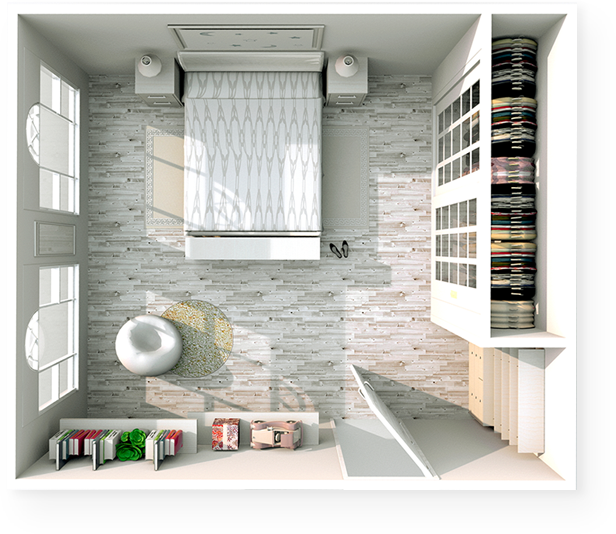
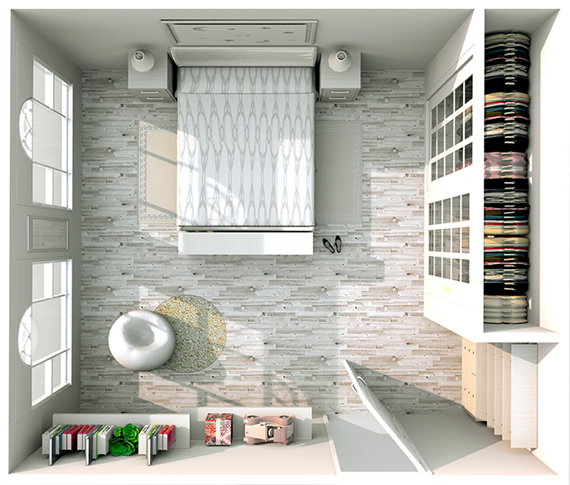
готово

diff --git a/lesson_14/src/css/style.css b/lesson_14/src/css/style.css
@@ -7,6 +7,10 @@ img {
   max-width: 100%;
 }
 
+h1 {
+  margin: 0;
+}
+
 .container {
   width: 1170px;
   margin: auto;
@@ -16,6 +20,9 @@ img {
   .container {
     width: 760px;
   }
+  .hero {
+    padding: 50px 0;
+  }
 }
 
 @media (max-width: 768px) {
@@ -23,12 +30,16 @@ img {
     max-width: 570px;
     width: 95%;
   }
+  .hero {
+    margin: 0;
+    padding: 0;
+  }
 }
 
 /* усложненное задание :)*/
 @media (max-width: 567px) {
   .container {
-    width: 279px;
+    width: 280px;
   }
 }
 
@@ -41,7 +52,6 @@ img {
   font-weight: 400;
 }
 
-/* импорт стилий шапки */
 .navbar {
   padding: 8px 0;
 }
@@ -149,13 +159,14 @@ img {
 }
 
 .hero {
-  padding: 50px 0;
+  background-color: #f5f5f5;
 }
 
 .hero-block {
   display: -webkit-box;
   display: -ms-flexbox;
   display: flex;
+  padding: 50px 0 52px 0;
 }
 
 .hero-text {
@@ -166,16 +177,16 @@ img {
 
 .hero-text__title {
   font-size: 41px;
-  font-weight: 600;
+  font-weight: 400;
   line-height: 55px;
-  margin-bottom: 40px;
+  margin: 30px 0 38px 0;
 }
 
 .hero-text__subtitle {
   display: inline-block;
   font-size: 20px;
   font-weight: 500;
-  margin-bottom: 69px;
+  margin-bottom: 60px;
 }
 
 .hero-list {
@@ -211,7 +222,13 @@ img {
 }
 
 .hero-list__text {
-  max-width: 300px;
+  max-width: 223px;
+  font-size: 14px;
+}
+
+.hero-image__image {
+  -webkit-box-shadow: 7px 5px 10px rgba(0, 0, 0, 0.05), 16px 22px 35px rgba(0, 0, 0, 0.05);
+          box-shadow: 7px 5px 10px rgba(0, 0, 0, 0.05), 16px 22px 35px rgba(0, 0, 0, 0.05);
 }
 
 @media (max-width: 1200px) {
@@ -230,23 +247,41 @@ img {
 }
 
 @media (max-width: 768px) {
+  .hero-block {
+    padding: 0;
+  }
   .hero-text__title {
     font-size: 24px;
-    line-height: 1.4;
-    margin-bottom: 15px;
+    line-height: 1.3;
+    margin-top: 34px;
+    margin-bottom: 9px;
   }
   .hero-text__subtitle {
     font-size: 16px;
-    margin-bottom: 28px;
+    margin-bottom: 24px;
   }
   .hero-list__item {
-    margin-bottom: 20px;
+    margin-bottom: 17px;
   }
   .hero-list__text {
     font-size: 12px;
   }
   .hero-list__image {
     margin-right: 15px;
+    margin-left: 3px;
+    width: 40px;
+    height: 40px;
+    border: 2px solid #ffd200;
+    display: -webkit-box;
+    display: -ms-flexbox;
+    display: flex;
+    -webkit-box-align: center;
+        -ms-flex-align: center;
+            align-items: center;
+    -webkit-box-pack: center;
+        -ms-flex-pack: center;
+            justify-content: center;
+    border-radius: 50%;
   }
 }
 /*# sourceMappingURL=style.css.map */

diff --git a/lesson_14/src/index.html b/lesson_14/src/index.html
@@ -5,7 +5,7 @@
   <meta charset="UTF-8">
   <meta name="viewport" content="width=device-width, initial-scale=1.0">
   <meta http-equiv="X-UA-Compatible" content="ie=edge">
-  <title>Document</title>
+  <title>Ремонт Квартир</title>
   <link rel="stylesheet" href="css/normalize.css">
   <link rel="stylesheet" href="css/style.css">
 </head>
@@ -68,7 +68,7 @@
           </div>
           <!-- /.hero-list -->
           <div class="hero-image">
-            <img src="img/hero/hero-image.png" alt="План квартиры">
+            <img src="img/hero/hero-image.jpg" class="hero-image__image" alt="План квартиры">
           </div>
           <!-- /.hero-image -->
         </div>

diff --git a/lesson_14/src/sass/_interface.sass b/lesson_14/src/sass/_interface.sass
@@ -1,7 +1,9 @@
 body
   font-family: sans-serif
 img
-  max-width: 100%
+  max-width: 100% 
+h1
+  margin: 0
   
 .container 
   width: 1170px
@@ -9,15 +11,21 @@ img
 @media (max-width: 1200px)
   .container
     width: 760px
+  .hero
+    padding: 50px 0
 @media (max-width: 768px)
   .container
     max-width: 570px
     width: 95%
+  .hero
+    margin: 0
+    padding: 0
+
 
 /* усложненное задание :)*/
 @media (max-width: 567px)
   .container
-    width: 279px
+    width: 280px
 
 .button
   border-radius: 10px

diff --git a/lesson_14/src/sass/style.sass b/lesson_14/src/sass/style.sass
@@ -1,6 +1,4 @@
 @import 'color'
 @import 'interface'
-
-/* импорт стилий шапки */
 @import 'blocks/navbar'
 @import 'blocks/hero'
